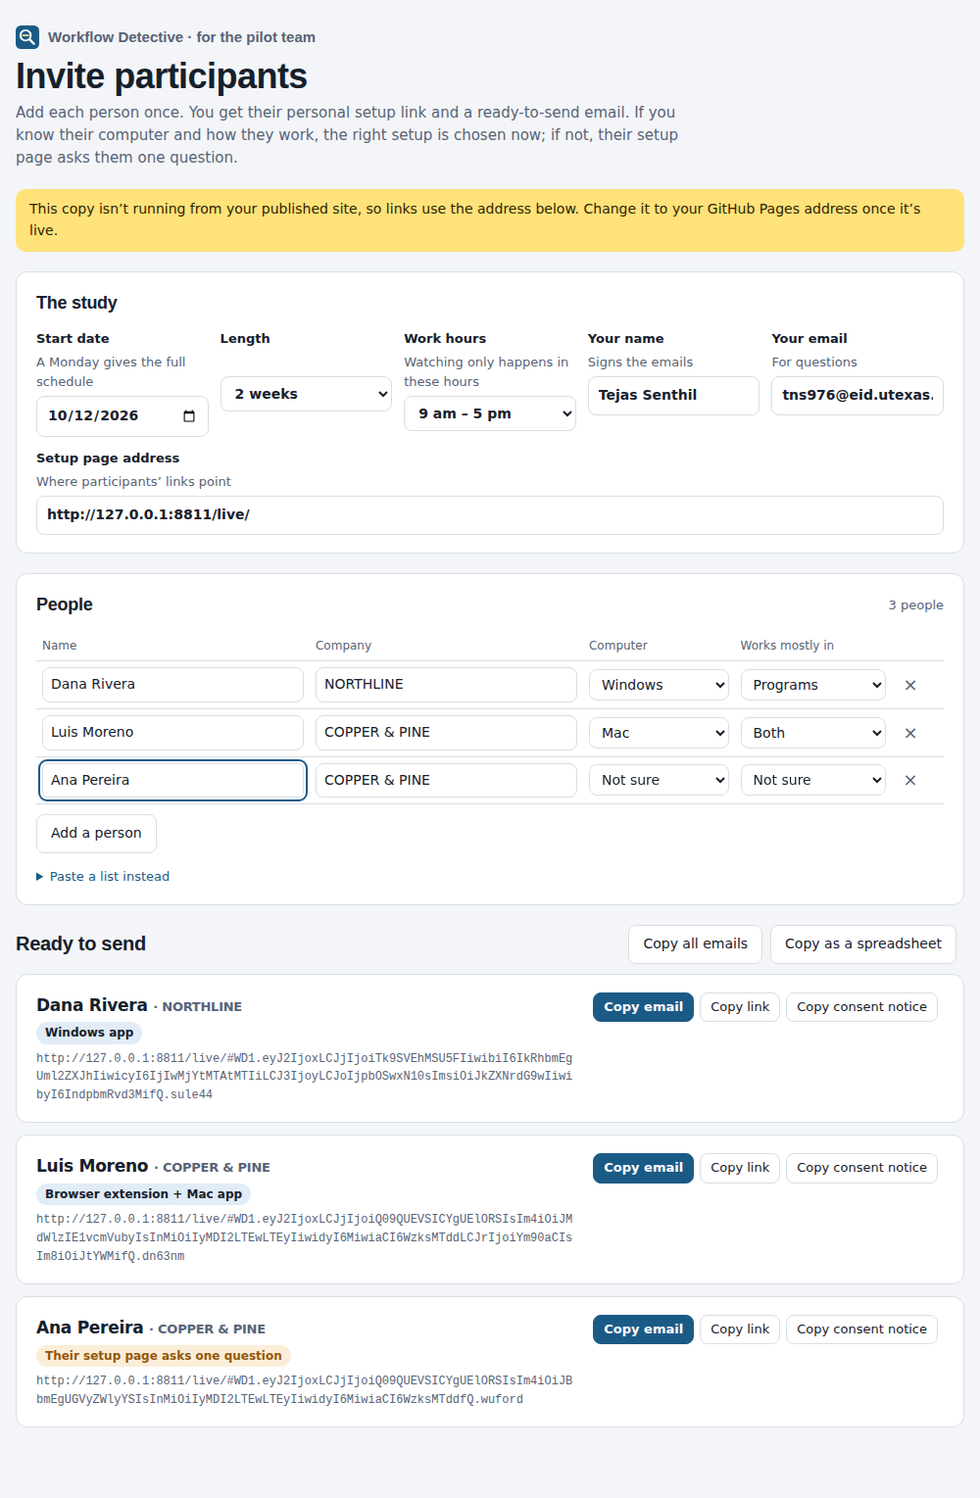
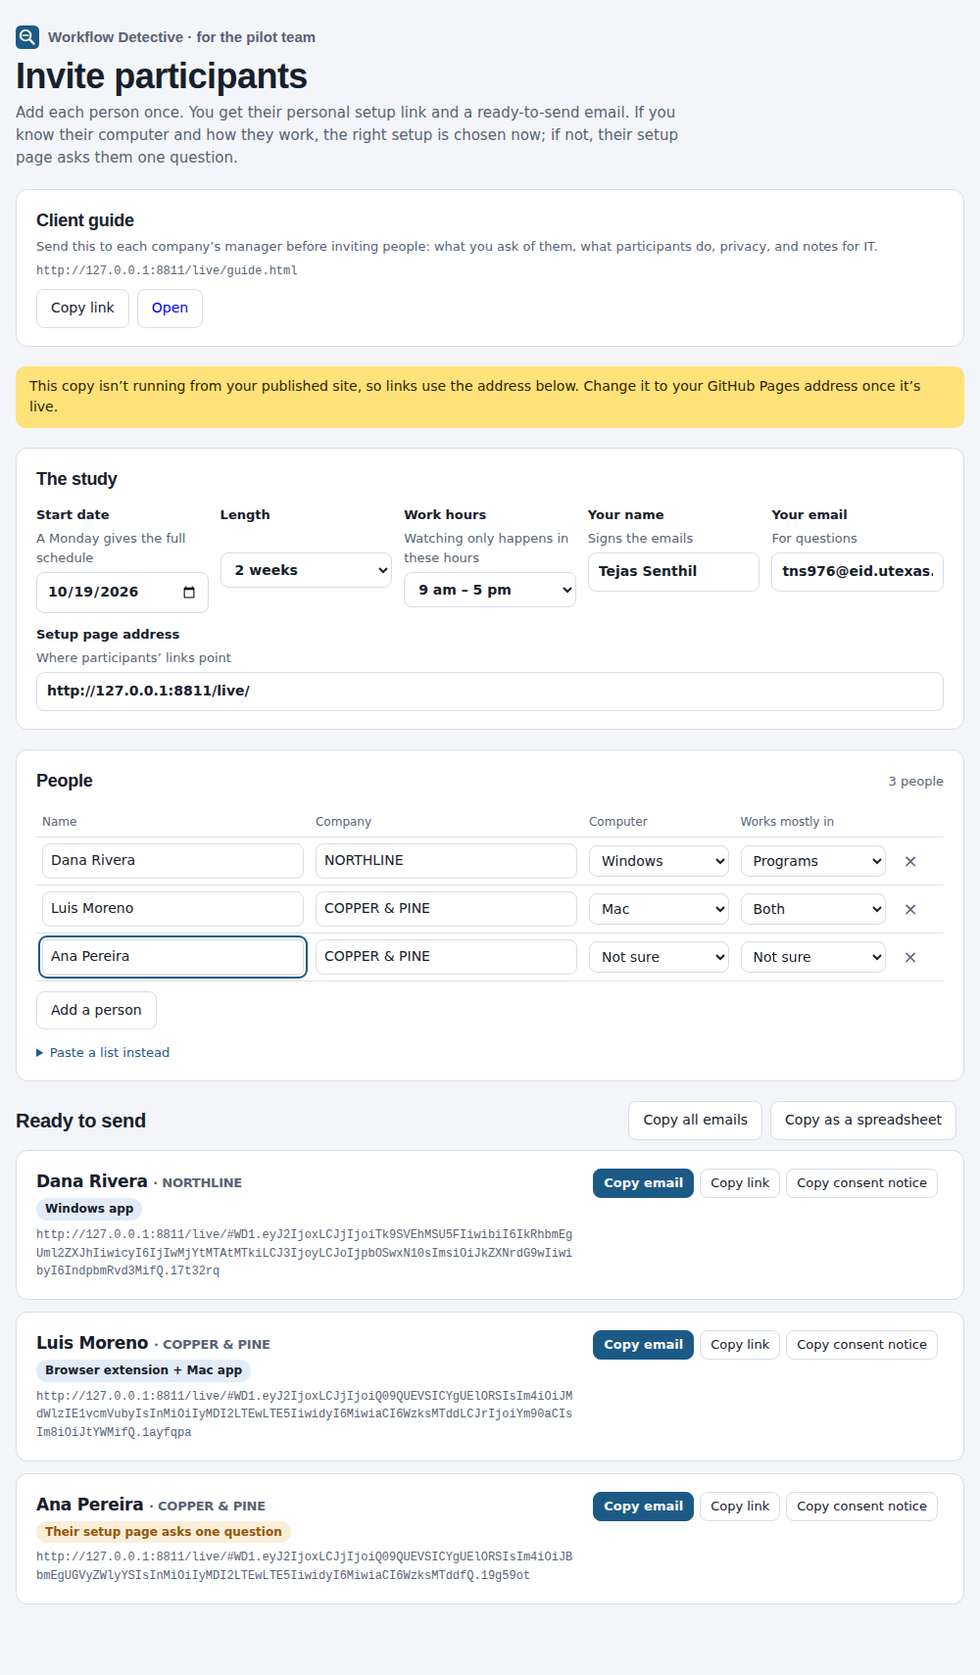
Fix Windows self-checks crashing without a console; add client guide page; report build failures as annotations
Claude-Session: https://claude.ai/code/session_01U78aBsdTCyoXJNvWY7dBA2

diff --git a/site/guide.html b/site/guide.html
@@ -1,0 +1,191 @@
+<!doctype html>
+<html lang="en">
+<head>
+<meta charset="utf-8">
+<meta name="viewport" content="width=device-width, initial-scale=1, viewport-fit=cover">
+<title>Workflow Detective Pilot Guide</title>
+<link rel="preconnect" href="https://fonts.googleapis.com">
+<link rel="preconnect" href="https://fonts.gstatic.com" crossorigin>
+<link href="https://fonts.googleapis.com/css2?family=Bricolage+Grotesque:opsz,wght@12..96,600;12..96,800&family=IBM+Plex+Mono:wght@400;500&family=IBM+Plex+Sans:wght@400;500;600&display=swap" rel="stylesheet">
+<style>
+/* Layout: a guide for the client company. Short intro + three-week timeline strip, then sections a manager, a
+   participant and IT each jump to. Same palette and faces as the participant setup page. */
+:root{
+  --bg:#F3F5F8; --surface:#FFFFFF; --sunk:#E9EDF2; --line:#D8DEE6;
+  --ink:#16202C; --muted:#586376;
+  --brand:#1C5A86; --brand-ink:#FFFFFF; --brand-soft:#E1ECF6;
+  --mark:#FFE27A; --mark-ink:#2E2400;
+  --good:#1D7A4E; --bad:#B3261E;
+  --display:"Bricolage Grotesque","Avenir Next","Segoe UI",sans-serif;
+  --body:"IBM Plex Sans","Segoe UI",system-ui,sans-serif;
+  --mono:"IBM Plex Mono",ui-monospace,Menlo,monospace;
+}
+@media (prefers-color-scheme: dark){:root:not([data-theme="light"]){
+  --bg:#0E131A; --surface:#161C25; --sunk:#1D2430; --line:#2A3341; --ink:#E6EAF0; --muted:#98A2B4;
+  --brand:#6CB2E2; --brand-ink:#08131D; --brand-soft:#17293A; --mark:#E5C247; --mark-ink:#1C1500;
+  --good:#5ED19A; --bad:#FF8A80; color-scheme:dark;
+}}
+:root[data-theme="dark"]{
+  --bg:#0E131A; --surface:#161C25; --sunk:#1D2430; --line:#2A3341; --ink:#E6EAF0; --muted:#98A2B4;
+  --brand:#6CB2E2; --brand-ink:#08131D; --brand-soft:#17293A; --mark:#E5C247; --mark-ink:#1C1500;
+  --good:#5ED19A; --bad:#FF8A80; color-scheme:dark;
+}
+*{box-sizing:border-box}
+[hidden]{display:none!important}
+html,body{margin:0}
+body{background:var(--bg);color:var(--ink);font-family:var(--body);font-size:16.5px;line-height:1.6}
+a{color:var(--brand);text-underline-offset:3px}
+:focus-visible{outline:3px solid var(--brand);outline-offset:3px;border-radius:6px}
+h1,h2,h3{font-family:var(--display);letter-spacing:-.015em;text-wrap:balance;margin:0}
+p{margin:0}
+.wrap{max-width:820px;margin:0 auto;padding-inline:16px;padding-block:28px 80px;display:flex;flex-direction:column;gap:28px}
+.brand{display:flex;align-items:center;gap:9px;font-family:var(--display);font-weight:600;font-size:15px;color:var(--muted)}
+.brand svg{width:26px;height:26px}
+h1{font-size:clamp(30px,5vw,44px);font-weight:800;line-height:1.08}
+.lead{font-size:19px;color:var(--muted);max-width:62ch;margin-top:12px}
+.lead b{color:var(--ink);font-weight:600}
+.jump{display:flex;flex-wrap:wrap;gap:8px;margin-top:18px}
+.jump a{font-size:14px;font-weight:600;text-decoration:none;background:var(--surface);border:1px solid var(--line);border-radius:999px;padding:6px 14px;color:var(--ink)}
+.jump a:hover{border-color:var(--brand)}
+.timeline{list-style:none;margin:0;padding:0;display:grid;grid-template-columns:repeat(3,minmax(0,1fr));gap:12px}
+@media (max-width:640px){.timeline{grid-template-columns:minmax(0,1fr)}}
+.timeline li{background:var(--surface);border:1px solid var(--line);border-radius:12px;padding:16px 18px;display:flex;flex-direction:column;gap:6px}
+.when{font-family:var(--mono);font-size:12px;letter-spacing:.06em;text-transform:uppercase;color:var(--brand);font-weight:500}
+.timeline h3{font-size:18px;font-weight:600}
+.timeline p{font-size:15px;color:var(--muted)}
+.timeline .time{font-size:13px;color:var(--ink);font-weight:600;margin-top:auto;padding-top:6px}
+section{display:flex;flex-direction:column;gap:12px;scroll-margin-top:16px}
+section > h2{font-size:26px;font-weight:600}
+section > p, section > ul, section > ol{max-width:66ch}
+ul,ol{margin:0;padding-left:22px;display:flex;flex-direction:column;gap:6px}
+.card{background:var(--surface);border:1px solid var(--line);border-radius:12px;padding:18px 20px}
+.two{display:grid;grid-template-columns:minmax(0,1fr) minmax(0,1fr);gap:12px}
+@media (max-width:640px){.two{grid-template-columns:minmax(0,1fr)}}
+.two h3{font-size:17px;font-weight:600;display:flex;align-items:center;gap:8px}
+.dot{width:9px;height:9px;border-radius:50%;flex:none}
+.two ul{margin-top:8px;font-size:15px}
+.steps{counter-reset:s;list-style:none;padding:0;gap:10px}
+.steps li{counter-increment:s;position:relative;padding-left:44px;min-height:30px}
+.steps li::before{content:counter(s);position:absolute;left:0;top:-1px;width:30px;height:30px;border-radius:50%;display:grid;place-items:center;background:var(--brand);color:var(--brand-ink);font-family:var(--display);font-weight:800;font-size:15px}
+.tbl{overflow-x:auto;border:1px solid var(--line);border-radius:12px;background:var(--surface)}
+table{border-collapse:collapse;width:100%;font-size:15px;min-width:560px}
+th,td{text-align:left;padding:10px 14px;border-bottom:1px solid var(--line);vertical-align:top}
+th{font-size:13px;color:var(--muted);font-weight:600}
+tr:last-child td{border-bottom:0}
+code{font-family:var(--mono);font-size:13px;background:var(--sunk);border-radius:5px;padding:1px 5px;word-break:break-word}
+details{background:var(--surface);border:1px solid var(--line);border-radius:12px;padding:12px 16px}
+details + details{margin-top:-4px}
+summary{cursor:pointer;font-weight:600}
+details p{margin-top:8px;color:var(--ink);max-width:66ch}
+.note{background:var(--brand-soft);border-radius:10px;padding:12px 14px;font-size:15px;max-width:66ch}
+footer{font-size:14px;color:var(--muted);border-top:1px solid var(--line);padding-top:18px}
+@media (prefers-reduced-motion:reduce){*{transition:none!important}}
+</style>
+</head>
+<body>
+<div class="wrap">
+  <div class="brand"><svg viewBox="0 0 32 32" aria-hidden="true"><rect width="32" height="32" rx="7" fill="var(--brand)"/><circle cx="13.5" cy="13.5" r="7" fill="none" stroke="var(--brand-ink)" stroke-width="2.6"/><path d="M18.8 18.8l6 6" stroke="var(--brand-ink)" stroke-width="3" stroke-linecap="round"/><path d="M10 13.5h7" stroke="var(--mark)" stroke-width="2.4" stroke-linecap="round"/></svg>Workflow Detective · pilot guide for companies</div>
+
+  <header>
+    <h1>Find the busywork your team could stop doing</h1>
+    <p class="lead">Workflow Detective quietly notices the steps your people repeat at their computers, like copying the same details from emails into a spreadsheet, and turns them into a plain-English list of what could be automated. <b>Nobody has to describe their job or know anything about AI.</b> This guide covers what we ask of your company, what your participants do, and what the tool can and can’t see.</p>
+    <nav class="jump" aria-label="Sections">
+      <a href="#ask">What we ask of you</a><a href="#people">For participants</a><a href="#privacy">Privacy</a><a href="#it">For IT</a><a href="#faq">Questions</a>
+    </nav>
+  </header>
+
+  <ol class="timeline" aria-label="Pilot timeline">
+    <li><span class="when">Week 0</span><h3>Invite</h3><p>You pick who takes part. Each person gets an email with a personal setup link.</p><span class="time">About 5 minutes each</span></li>
+    <li><span class="when">Weeks 1–2</span><h3>Work as usual</h3><p>It watches 3 days a week, during work hours only. Nothing to do.</p><span class="time">No time needed</span></li>
+    <li><span class="when">Week 3</span><h3>Results</h3><p>A short call with each person, then a readout of what could be automated and what it would save.</p><span class="time">30 minutes each</span></li>
+  </ol>
+
+  <section id="ask">
+    <h2>What we ask of your company</h2>
+    <ol class="steps">
+      <li><b>Choose 1 to 3 people</b> who spend a lot of their day on admin: operations, bookkeeping, accounts payable or receivable, scheduling, customer support, order processing. People who say “I’m always copying things between systems” are ideal.</li>
+      <li><b>Give the OK in writing.</b> A reply to our email is enough. Each participant also agrees for themselves on their setup page, and taking part is always voluntary.</li>
+      <li><b>Send us their names</b>, and if you know them, whether each person uses a Windows PC or a Mac. We send each person their own setup email.</li>
+      <li><b>Let them use their normal work computer.</b> Not a personal device.</li>
+      <li><b>Join the readout</b> in week 3 if you’d like. You see the findings each participant chose to share, never their activity.</li>
+    </ol>
+  </section>
+
+  <section id="people">
+    <h2>What participants do</h2>
+    <p>Each person gets an email with their personal link. The link already knows their name, company and schedule, and the page works out what kind of computer they have, so they only see the steps that apply to them.</p>
+    <ol class="steps">
+      <li><b>Open the link</b> on their work computer.</li>
+      <li><b>Click the big button.</b> Either <i>Add to Chrome/Edge</i> (for work done in websites) or <i>Download for Windows/Mac</i> (for programs like Outlook and Excel), sometimes both. The page explains any warning their computer shows along the way.</li>
+      <li><b>Read what it records</b>, tick <b>I agree</b>, and click <b>Start the study</b>. Their details are already filled in.</li>
+      <li><b>Work as usual</b> for two weeks. A small magnifying-glass icon shows it’s running, and they can pause it any time.</li>
+      <li><b>On the last day</b>, they open <i>My findings</i> with us, confirm which findings are right, and choose whether to send us the results file.</li>
+    </ol>
+    <p class="note">If someone gets stuck, they can open their link again. It shows which steps are done. Or they can reply to the email and we’ll help.</p>
+  </section>
+
+  <section id="privacy">
+    <h2>What it can and can’t see</h2>
+    <div class="two">
+      <div class="card"><h3><span class="dot" style="background:var(--good)"></span>What it notices</h3><ul>
+        <li>Which program or website is in use, and for how long</li>
+        <li>Window and page titles, with numbers and email addresses removed</li>
+        <li>That something was copied or pasted, and what kind of thing it was (a number, a date). Never what it was.</li>
+        <li>The names of fields filled in, like “Customer”. Never what was typed.</li>
+        <li>That a file was downloaded or saved, and its type (like .csv). Never the file.</li>
+      </ul></div>
+      <div class="card"><h3><span class="dot" style="background:var(--bad)"></span>What it never sees</h3><ul>
+        <li>What anyone types, or the contents of emails, chats, documents and spreadsheet cells</li>
+        <li>Screenshots or recordings of the screen</li>
+        <li>Passwords, card numbers, bank details</li>
+        <li>Private browser windows, password managers, banking and health sites, or any app the person blocks</li>
+        <li>Anything outside watch days and work hours</li>
+      </ul></div>
+    </div>
+    <ul>
+      <li><b>Everything stays on the participant’s computer.</b> There are no servers. Nobody, including you and us, can see the data while it’s there.</li>
+      <li><b>The participant reviews everything first</b>, can delete any part of it, and decides whether to send us their results file at the end.</li>
+      <li><b>It isn’t a performance tool.</b> Findings describe processes (“copying invoice details from email into the accounting system”), not how fast or how much someone works.</li>
+      <li><b>Automatic deletion:</b> data on the computer is deleted 14 days after the study ends. We delete results files 30 days after the pilot unless you ask us to keep them for an automation project.</li>
+    </ul>
+    <p>Full details: <a href="privacy.html">privacy policy</a>.</p>
+  </section>
+
+  <section id="it">
+    <h2>For your IT team</h2>
+    <div class="tbl"><table>
+      <thead><tr><th>Version</th><th>What gets installed</th><th>Admin rights</th><th>Network</th></tr></thead>
+      <tbody>
+        <tr><td><b>Browser extension</b><br><span style="color:var(--muted);font-size:14px">Chrome or Edge</span></td><td>An unlisted extension from the Chrome Web Store. Can be force-installed by policy (<code>ExtensionInstallForcelist</code>).</td><td>No</td><td>None. It never sends data anywhere.</td></tr>
+        <tr><td><b>Windows app</b><br><span style="color:var(--muted);font-size:14px">Windows 10/11</span></td><td>One program in the user’s own folder (<code>%LOCALAPPDATA%\Programs\WorkflowDetective</code>), a Start menu shortcut, and a sign-in startup entry for the current user. Uses the .NET Framework already on Windows.</td><td>No</td><td>None outside the computer. It shows its pages through a local address (127.0.0.1) only that user can open.</td></tr>
+        <tr><td><b>Mac app</b><br><span style="color:var(--muted);font-size:14px">macOS 12 or newer</span></td><td>An app in Applications, set to open at login. Asks for the Accessibility permission (to read window titles and field names).</td><td>No</td><td>None.</td></tr>
+      </tbody>
+    </table></div>
+    <ul>
+      <li><b>During the pilot, the apps aren’t code-signed yet</b>, so Windows SmartScreen or macOS Gatekeeper shows a one-time warning. If your security tools block unsigned software, tell us and we’ll work out the best route with you.</li>
+      <li><b>It never records keystrokes or the screen.</b> On Windows it reads app and window names, clipboard <i>type</i> (not contents), field labels through accessibility, and, in Excel and Outlook, sheet and column headings and the subject of the email being read (numbers removed).</li>
+      <li><b>Removing it:</b> the participant clicks <i>Stop and delete everything</i> in its settings. That deletes all its data and stops it starting at sign-in.</li>
+    </ul>
+  </section>
+
+  <section id="faq">
+    <h2>Questions</h2>
+    <details><summary>Does anyone have to change how they work?</summary><p>No. The point is to see normal work. Participants should do exactly what they’d do anyway.</p></details>
+    <details><summary>Will it slow down their computer?</summary><p>No. It only writes down a small note when something changes (a different app comes to the front, a copy happens), and keeps them in a small file.</p></details>
+    <details><summary>Can a participant pause or stop?</summary><p>Yes, any time. Pause for an hour from the icon, block any website or app, or stop completely, which deletes everything it recorded.</p></details>
+    <details><summary>What do we get at the end?</summary><p>A short list of the repetitive processes it found for each participant who chose to share, how often they happen, roughly how much time they take each week, and a suggested way to automate each one, from a simple template to an integration between systems.</p></details>
+    <details><summary>What if someone works mostly in websites, or mostly in desktop programs?</summary><p>Both work. Their setup page asks one question and picks the right version: a browser extension for websites, a Windows or Mac app for programs, or both.</p></details>
+    <details><summary>Does it use AI on our data?</summary><p>No. Findings come from simple rules that run on the participant’s own computer, so their activity is never sent to an AI service or anywhere else.</p></details>
+  </section>
+
+  <footer id="contact">Questions? Contact Tejas Senthil at <a href="mailto:tns976@eid.utexas.edu">tns976@eid.utexas.edu</a>.</footer>
+</div>
+<script>
+fetch("config.json", { cache: "no-store" }).then(function (r) { return r.ok ? r.json() : null; }).then(function (c) {
+  if (!c || !c.contactEmail) return;
+  var f = document.getElementById("contact"); f.textContent = "Questions? Contact " + (c.contactName || "the pilot team") + " at ";
+  var a = document.createElement("a"); a.href = "mailto:" + c.contactEmail; a.textContent = c.contactEmail; f.appendChild(a); f.appendChild(document.createTextNode("."));
+}).catch(function () {});
+</script>
+</body>
+</html>

diff --git a/test/site.test.js b/test/site.test.js
@@ -27,7 +27,7 @@ const server = http.createServer((req, res) => {
   if (file === "invite.js") { body = fs.readFileSync(path.join(ROOT, "extension/lib/invite.js")); type = "text/javascript"; }
   else if (file === "config.json") { body = setup.config ? JSON.stringify(setup.config) : fs.readFileSync(path.join(ROOT, "site/config.json")); type = "application/json"; }
   else if (file === "downloads.json") { if (setup.downloads) { body = JSON.stringify(setup.downloads); type = "application/json"; } }
-  else if (/^(index|invite)\.html$/.test(file)) body = fs.readFileSync(path.join(ROOT, "site", file));
+  else if (/^(index|invite|guide|privacy)\.html$/.test(file)) body = fs.readFileSync(path.join(ROOT, "site", file));
   if (body == null) { res.writeHead(404); return res.end(); }
   res.writeHead(200, { "content-type": type }); res.end(body);
 });
@@ -181,6 +181,7 @@ const invite = extra => I.encode(Object.assign({ company: "NORTHLINE", participa
     ok("removing a person", (await p.$$("#out .person")).length === 2);
     await p.click("#addRow"); await p.keyboard.type("Ana Pereira");
     ok("Add a person copies the company from the row above", (await p.$$("#out .person")).length === 3 && /COPPER & PINE/.test(await text(p, "#out .person:last-child h3")));
+    ok("client guide link follows the setup page address", (await text(p, "#guideLink")) === `${BASE}/live/guide.html`);
     await p.screenshot({ path: path.join(ROOT, "samples/site-invite.png"), fullPage: true });
     ok("invite tool fits a phone screen", await (async () => { await p.setViewportSize({ width: 375, height: 800 }); await p.waitForTimeout(100); return p.evaluate(() => document.documentElement.scrollWidth <= innerWidth + 1); })());
     await p.context().close();
@@ -188,6 +189,14 @@ const invite = extra => I.encode(Object.assign({ company: "NORTHLINE", participa
     // 10. the link the tool made opens straight to Dana's steps on her Windows PC
     p = await open(UA.winChrome, link);
     ok("the tool’s link → Dana’s page goes straight to the Windows app", (await text(p, "#hello")) === "Hi Dana, let’s get you set up" && JSON.stringify(await stepIds(p)) === '["st-windows"]');
+    await p.context().close();
+
+    // 11. client guide
+    p = await open(UA.winChrome, `${BASE}/live/guide.html`);
+    ok("client guide loads with the contact from config.json", /Tejas Senthil at tns976@eid\.utexas\.edu/.test(await text(p, "#contact")) && (await p.$$("section")).length >= 5);
+    ok("client guide fits a phone screen", await (async () => { await p.setViewportSize({ width: 375, height: 800 }); await p.waitForTimeout(100); return p.evaluate(() => document.documentElement.scrollWidth <= innerWidth + 1); })());
+    await p.setViewportSize({ width: 1000, height: 900 });
+    await p.screenshot({ path: path.join(ROOT, "samples/site-guide.png"), fullPage: true });
     await p.context().close();
 
     ok("no script errors", errs.length === 0, errs.join("; "));

diff --git a/site/invite.html b/site/invite.html
@@ -81,6 +81,11 @@ td input,td select{padding:6px 8px}
     <p class="sub">Add each person once. You get their personal setup link and a ready-to-send email. If you know their computer and how they work, the right setup is chosen now; if not, their setup page asks them one question.</p>
   </div>
 
+  <section class="card row" style="justify-content:space-between">
+    <div style="min-width:0"><h2>Client guide</h2><p class="small muted" style="margin-top:2px">Send this to each company’s manager before inviting people: what you ask of them, what participants do, privacy, and notes for IT.</p><p class="link" id="guideLink"></p></div>
+    <div class="row"><button class="btn" id="copyGuide">Copy link</button><a class="btn" id="openGuide" target="_blank" rel="noopener" style="text-decoration:none">Open</a><span class="ok" id="guideMsg"></span></div>
+  </section>
+
   <p class="banner" id="baseWarn" hidden>This copy isn’t running from your published site, so links use the address below. Change it to your GitHub Pages address once it’s live.</p>
 
   <section class="card">
@@ -218,7 +223,9 @@ td input,td select{padding:6px 8px}
         '<span class="ok" data-msg="' + people.indexOf(p) + '"></span></div></article>';
     }).join("") || '<div class="card empty">Each person shows up here with their link and email once they have a name and company.</div>';
   }
-  function render() { renderRows(); renderOut(); save(); }
+  function guideUrl() { var b = $("base").value.trim(); if (b && !/\/$/.test(b)) b = b.replace(/[^/]*$/, ""); return b + "guide.html"; }
+  function renderGuide() { $("guideLink").textContent = guideUrl(); $("openGuide").href = guideUrl(); }
+  function render() { renderRows(); renderOut(); renderGuide(); save(); }
 
   function copy(text, msgEl, what) {
     function done(ok) { if (msgEl) { msgEl.textContent = ok ? what + " copied" : "Copy blocked: select and copy manually"; setTimeout(function () { msgEl.textContent = ""; }, 2500); } }
@@ -250,7 +257,8 @@ td input,td select{padding:6px 8px}
     $("paste").value = ""; $("pasteMsg").textContent = n ? "Added " + n : "Nothing to add";
     render();
   });
-  ["start", "weeks", "hours", "contact", "email", "base"].forEach(function (id) { $(id).addEventListener("input", function () { renderOut(); save(); }); });
+  ["start", "weeks", "hours", "contact", "email", "base"].forEach(function (id) { $(id).addEventListener("input", function () { renderOut(); renderGuide(); save(); }); });
+  $("copyGuide").addEventListener("click", function () { copy(guideUrl(), $("guideMsg"), "Link"); });
   $("out").addEventListener("click", function (e) {
     var b = e.target.closest("[data-act]"); if (!b) return;
     var p = people[+b.dataset.i], msg = document.querySelector('[data-msg="' + b.dataset.i + '"]');

diff --git a/site/index.html b/site/index.html
@@ -336,7 +336,7 @@ footer{font-size:14px;color:var(--muted)}
   });
 
   function boot() {
-    $("contact").innerHTML = "Questions? Contact " + esc(cfg.contactName) + (cfg.contactEmail ? ' at <a href="mailto:' + esc(cfg.contactEmail) + '">' + esc(cfg.contactEmail) + "</a>" : "") + '. · <a href="privacy.html">Privacy</a>';
+    $("contact").innerHTML = "Questions? Contact " + esc(cfg.contactName) + (cfg.contactEmail ? ' at <a href="mailto:' + esc(cfg.contactEmail) + '">' + esc(cfg.contactEmail) + "</a>" : "") + '. · <a href="guide.html">How the pilot works</a> · <a href="privacy.html">Privacy</a>';
     var c = I.find(location.hash);
     var inv = c && I.decode(c);
     if (inv && inv.participant) { useInvite(c); return; }

diff --git a/desktop/src/SelfTest.cs b/desktop/src/SelfTest.cs
@@ -18,7 +18,14 @@ namespace WorkflowDetective
 
         public static int Run(string parityFile)
         {
-            Console.OutputEncoding = Encoding.UTF8;
+            // Write UTF-8 straight to stdout. (Setting Console.OutputEncoding throws in a windowed .exe with no console.)
+            try { Console.SetOut(new StreamWriter(Console.OpenStandardOutput(), new UTF8Encoding(false)) { AutoFlush = true }); } catch { }
+            try { return RunChecks(parityFile); }
+            catch (Exception ex) { Console.WriteLine("✗ self-checks crashed: " + ex.GetType().Name + ": " + ex.Message + " " + (ex.StackTrace ?? "").Replace("\r", "").Replace("\n", " | ")); return 1; }
+        }
+
+        static int RunChecks(string parityFile)
+        {
             // privacy
             Check("titles lose numbers and emails", Privacy.RedactTitle("Payment received from Acme - Invoice 1042 - pat@acme.com - Outlook") == "Payment received from Acme - Invoice # - Outlook", Privacy.RedactTitle("Payment received from Acme - Invoice 1042 - pat@acme.com - Outlook"));
             Check("phone numbers removed", !Privacy.RedactTitle("Call (512) 555-0199 back").Contains("555"), null);

diff --git a/desktop/src/Program.cs b/desktop/src/Program.cs
@@ -70,7 +70,7 @@ namespace WorkflowDetective
     {
         public static int Run(string data, string start)
         {
-            Console.OutputEncoding = new System.Text.UTF8Encoding(false);
+            try { Console.SetOut(new StreamWriter(Console.OpenStandardOutput(), new System.Text.UTF8Encoding(false)) { AutoFlush = true }); } catch { }
             var kv = new KvStore(data); var store = new EventStore(data);
             store.Clear();
             kv.Merge(new Dictionary<string, object> { { "settings", new Dictionary<string, object> {
